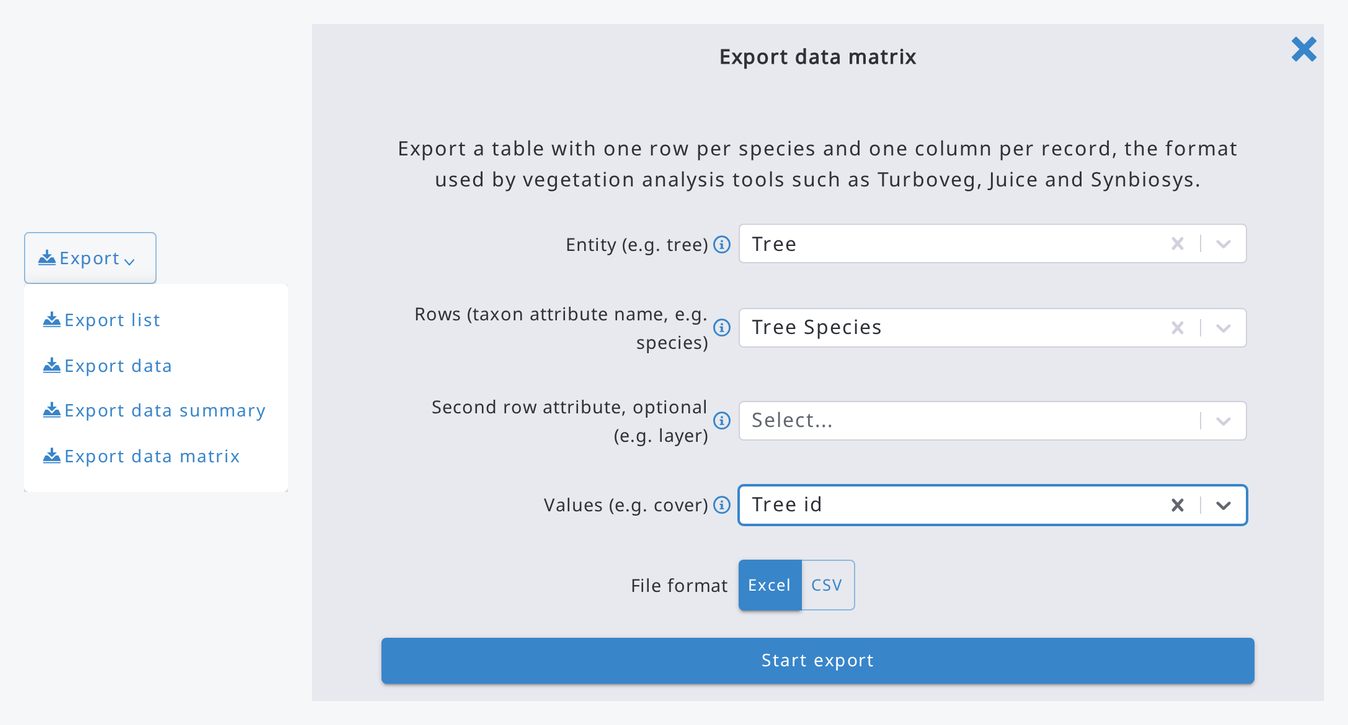
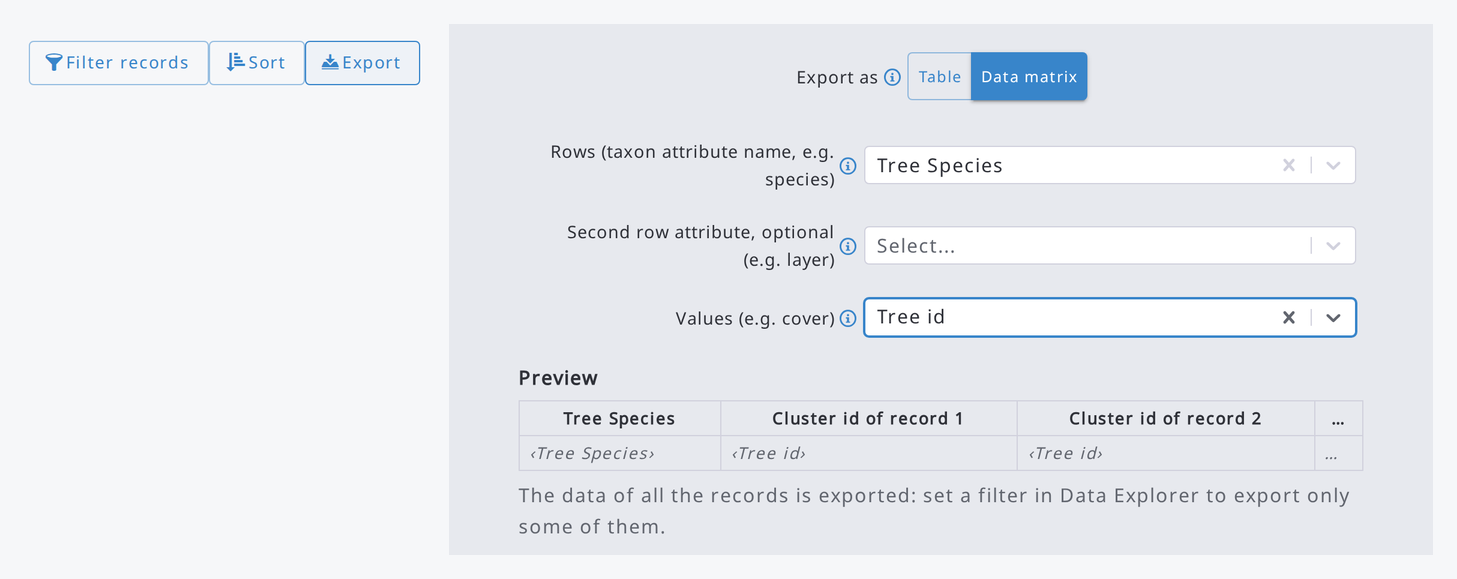
What's new: data matrix export in the Data Explorer

diff --git a/core/i18n/resources/mn/whatsNew.ts b/core/i18n/resources/mn/whatsNew.ts
@@ -8,9 +8,9 @@ export default {
   items: {
     dataMatrixExport: {
       title: `Өгөгдлийг матриц хэлбэрээр экспортлох`,
-      description: `**Өгөгдөл > Бичлэгүүд** хэсэгт **Экспортлох > Өгөгдлийн матриц экспортлох**-ыг ашиглан зүйл (эсвэл өөр шинж чанар) тус бүрд нэг мөр, бүртгэл тус бүрд нэг багана бүхий, нүднүүдэд таны сонгосон утгатай (жишээ нь бүрхэц) хүснэгт авна.
+      description: `**Өгөгдөл > Хайгч** хэсэгт олон тоот нэгж (жишээ нь бичлэг бүрийн зүйлүүд) сонгоод **Экспортлох** дээр дарж **Экспортлох хэлбэр: Өгөгдлийн матриц**-ыг сонговол зүйл (эсвэл өөр шинж чанар) тус бүрд нэг мөр, бичлэг тус бүрд нэг багана бүхий, нүднүүдэд таны сонгосон утгатай (жишээ нь бүрхэц) хүснэгт гарна.
 
-Энэ нь **Turboveg**, **Juice**, **Synbiosys** зэрэг ургамлын шинжилгээний хэрэгслүүдэд шаардлагатай формат юм. Бүх бүртгэлийг, эсвэл зөвхөн сонгосон эсвэл шүүсэн бүртгэлүүдийг экспортлох боломжтой.`,
+Энэ нь **Turboveg**, **Juice**, **Synbiosys** зэрэг ургамлын шинжилгээний хэрэгслүүдэд шаардлагатай формат юм. Зарим бичлэгийг л экспортлохын тулд Хайгчид шүүлтүүр тохируулна уу.`,
     },
     mobilePreview: {
       title: 'Судалгааг Arena Mobile дээр урьдчилан харах',

diff --git a/core/i18n/resources/ru/whatsNew.ts b/core/i18n/resources/ru/whatsNew.ts
@@ -8,9 +8,9 @@ export default {
   items: {
     dataMatrixExport: {
       title: `Экспорт данных в виде матрицы`,
-      description: `В разделе **Данные > Записи** используйте **Экспорт > Экспортировать матрицу данных**, чтобы получить таблицу с одной строкой на вид (или другой атрибут) и одним столбцом на запись, с выбранным значением в ячейках (например, покрытие).
+      description: `В разделе **Данные > Проводник** выберите множественную сущность (например, виды каждой записи), нажмите **Экспорт** и выберите **Экспортировать как: Матрица данных**, чтобы получить таблицу с одной строкой на вид (или другой атрибут) и одним столбцом на запись, с выбранным значением в ячейках (например, покрытие).
 
-Этот формат нужен инструментам анализа растительности, таким как **Turboveg**, **Juice** и **Synbiosys**. Можно экспортировать все записи или только выбранные либо отфильтрованные.`,
+Этот формат нужен инструментам анализа растительности, таким как **Turboveg**, **Juice** и **Synbiosys**. Задайте фильтр в Проводнике, чтобы экспортировать только некоторые записи.`,
     },
     mobilePreview: {
       title: 'Предварительный просмотр анкеты в Arena Mobile',

diff --git a/core/i18n/resources/ja/whatsNew.ts b/core/i18n/resources/ja/whatsNew.ts
@@ -8,9 +8,9 @@ export default {
   items: {
     dataMatrixExport: {
       title: `データをマトリクスとしてエクスポート`,
-      description: `**データ > 記録**で**エクスポート > データマトリクスをエクスポート**を使用すると、種（または他の属性）ごとに1行、レコードごとに1列で、選択した値（例：被度）がセルに入った表を取得できます。
+      description: `**データ > エクスプローラー**で複数エンティティ（例：各レコードの種）を選択し、**エクスポート**をクリックして**エクスポート形式：データマトリクス**を選ぶと、種（または他の属性）ごとに1行、レコードごとに1列で、選択した値（例：被度）がセルに入った表を取得できます。
 
-これは **Turboveg**、**Juice**、**Synbiosys** などの植生解析ツールに必要な形式です。すべてのレコード、または選択・フィルターされたレコードのみをエクスポートできます。`,
+これは **Turboveg**、**Juice**、**Synbiosys** などの植生解析ツールに必要な形式です。一部のレコードのみをエクスポートするには、エクスプローラーでフィルターを設定してください。`,
     },
     mobilePreview: {
       title: 'Arena Mobile で調査をプレビュー',

diff --git a/core/i18n/resources/fr/whatsNew.ts b/core/i18n/resources/fr/whatsNew.ts
@@ -8,9 +8,9 @@ export default {
   items: {
     dataMatrixExport: {
       title: `Exporter les données sous forme de matrice`,
-      description: `Dans **Données > Enregistrements**, utilisez **Exporter > Exporter la matrice de données** pour obtenir un tableau avec une ligne par espèce (ou tout autre attribut) et une colonne par enregistrement, avec la valeur de votre choix dans les cellules (p. ex. le recouvrement).
+      description: `Dans **Données > Explorateur**, sélectionnez une entité multiple (p. ex. les espèces de chaque enregistrement), cliquez sur **Exporter** et choisissez **Exporter en tant que : Matrice de données** pour obtenir un tableau avec une ligne par espèce (ou tout autre attribut) et une colonne par enregistrement, avec la valeur de votre choix dans les cellules (p. ex. le recouvrement).
 
-C'est le format requis par les outils d'analyse de la végétation comme **Turboveg**, **Juice** et **Synbiosys**. Vous pouvez exporter tous les enregistrements, ou seulement ceux sélectionnés ou filtrés.`,
+C'est le format requis par les outils d'analyse de la végétation comme **Turboveg**, **Juice** et **Synbiosys**. Définissez un filtre dans l'Explorateur pour n'exporter que certains enregistrements.`,
     },
     mobilePreview: {
       title: "Aperçu de l'enquête dans Arena Mobile",

diff --git a/core/i18n/resources/es/whatsNew.ts b/core/i18n/resources/es/whatsNew.ts
@@ -8,9 +8,9 @@ export default {
   items: {
     dataMatrixExport: {
       title: `Exportar datos como matriz`,
-      description: `En **Datos > Registros**, use **Exportar > Exportar matriz de datos** para obtener una tabla con una fila por especie (o cualquier otro atributo) y una columna por registro, con el valor que elija en las celdas (p. ej. cobertura).
+      description: `En **Datos > Explorador**, seleccione una entidad múltiple (p. ej. las especies de cada registro), haga clic en **Exportar** y elija **Exportar como: Matriz de datos** para obtener una tabla con una fila por especie (o cualquier otro atributo) y una columna por registro, con el valor que elija en las celdas (p. ej. cobertura).
 
-Es el formato que necesitan las herramientas de análisis de vegetación como **Turboveg**, **Juice** y **Synbiosys**. Puede exportar todos los registros, o solo los seleccionados o filtrados.`,
+Es el formato que necesitan las herramientas de análisis de vegetación como **Turboveg**, **Juice** y **Synbiosys**. Defina un filtro en el Explorador para exportar solo algunos registros.`,
     },
     mobilePreview: {
       title: 'Vista previa de la encuesta en Arena Mobile',

diff --git a/core/i18n/resources/pt/whatsNew.ts b/core/i18n/resources/pt/whatsNew.ts
@@ -8,9 +8,9 @@ export default {
   items: {
     dataMatrixExport: {
       title: `Exportar dados como matriz`,
-      description: `Em **Dados > Registros**, use **Exportar > Exportar matriz de dados** para obter uma tabela com uma linha por espécie (ou qualquer outro atributo) e uma coluna por registro, com o valor escolhido nas células (p. ex. cobertura).
+      description: `Em **Dados > Explorador**, selecione uma entidade múltipla (p. ex. as espécies de cada registro), clique em **Exportar** e escolha **Exportar como: Matriz de dados** para obter uma tabela com uma linha por espécie (ou qualquer outro atributo) e uma coluna por registro, com o valor escolhido nas células (p. ex. cobertura).
 
-Este é o formato exigido por ferramentas de análise de vegetação como **Turboveg**, **Juice** e **Synbiosys**. Você pode exportar todos os registros, ou apenas os selecionados ou filtrados.`,
+Este é o formato exigido por ferramentas de análise de vegetação como **Turboveg**, **Juice** e **Synbiosys**. Defina um filtro no Explorador para exportar apenas alguns registros.`,
     },
     mobilePreview: {
       title: 'Visualização do inquérito no Arena Mobile',

diff --git a/core/i18n/resources/sr/whatsNew.ts b/core/i18n/resources/sr/whatsNew.ts
@@ -8,9 +8,9 @@ export default {
   items: {
     dataMatrixExport: {
       title: `Izvoz podataka u obliku matrice`,
-      description: `U **Podaci > Zapisi** koristite **Izvezi > Izvezi matricu podataka** da dobijete tabelu sa jednim redom po vrsti (ili drugom atributu) i jednom kolonom po zapisu, sa vrednošću koju izaberete u ćelijama (npr. pokrovnost).
+      description: `U **Podaci > Istraživač podataka** izaberite višestruki entitet (npr. vrste svakog zapisa), kliknite na **Izvezi** i izaberite **Izvezi kao: Matrica podataka** da dobijete tabelu sa jednim redom po vrsti (ili drugom atributu) i jednom kolonom po zapisu, sa vrednošću koju izaberete u ćelijama (npr. pokrovnost).
 
-Ovo je format koji zahtevaju alati za analizu vegetacije kao što su **Turboveg**, **Juice** i **Synbiosys**. Možete izvesti sve zapise, ili samo izabrane ili filtrirane.`,
+Ovo je format koji zahtevaju alati za analizu vegetacije kao što su **Turboveg**, **Juice** i **Synbiosys**. Postavite filter u Istraživaču podataka da biste izvezli samo neke zapise.`,
     },
     mobilePreview: {
       title: 'Pregled istraživanja u aplikaciji Arena Mobile',

diff --git a/core/i18n/resources/en/whatsNew.ts b/core/i18n/resources/en/whatsNew.ts
@@ -8,9 +8,9 @@ export default {
   items: {
     dataMatrixExport: {
       title: `Export data as a matrix`,
-      description: `In **Data > Records**, use **Export > Export data matrix** to get a table with one row per species (or any other attribute) and one column per record, with the value you choose in the cells (e.g. cover).
+      description: `In **Data > Explorer**, select a multiple entity (e.g. the species of each record), click **Export** and choose **Export as: Data matrix** to get a table with one row per species (or any other attribute) and one column per record, with the value you choose in the cells (e.g. cover).
 
-This is the format needed by vegetation analysis tools such as **Turboveg**, **Juice** and **Synbiosys**. You can export all the records, or only the selected or filtered ones.`,
+This is the format needed by vegetation analysis tools such as **Turboveg**, **Juice** and **Synbiosys**. Set a filter in the Explorer to export only some of the records.`,
     },
     mobilePreview: {
       title: 'Preview the survey in Arena Mobile',

diff --git a/core/whatsNew/whatsNewItems.ts b/core/whatsNew/whatsNewItems.ts
@@ -29,7 +29,7 @@ export const whatsNewItems: WhatsNewItem[] = [
   {
     id: 'dataMatrixExport',
     version: '2.10.12',
-    audience: whatsNewAudiences.all,
+    audience: whatsNewAudiences.dataCleanser,
     image: '/img/whats-new/dataMatrixExport.png',
   },
   {

diff --git a/CHANGELOG.md b/CHANGELOG.md
@@ -2,7 +2,7 @@
 
 A short, user-facing summary of each release. Internal/code-level changes are omitted; see the [git tags](https://github.com/openforis/arena/tags) for the full commit history.
 
-- **[2.10.12](https://github.com/openforis/arena/compare/v2.10.11...v2.10.12)** — 2026-11-02: records list: export data as a matrix, with one row per species (or any other attribute) and one column per record, as required by vegetation analysis tools such as Turboveg (#4626)
+- **[2.10.12](https://github.com/openforis/arena/compare/v2.10.11...v2.10.12)** — 2026-11-02: Data Explorer: export data as a matrix, with one row per species (or any other attribute) and one column per record, as required by vegetation analysis tools such as Turboveg (#4626)
 - **[2.10.11](https://github.com/openforis/arena/compare/v2.10.10...v2.10.11)** — 2026-11-02: data import: much faster import of Arena files with large records, from minutes to seconds (#4617); canceling an import now stops it after the current record (#4618); import preview shows the values of key attributes linked to large categories or taxonomies, and records with these keys are merged instead of duplicated (#4616, #4619); library updates (#4606, #4609, #4611, #4615)
 - **[2.10.10](https://github.com/openforis/arena/compare/v2.10.9...v2.10.10)** — 2026-10-31: chains: fixed plot area attributes lost when cloning a chain or publishing a survey with more chains (#4604); data entry: fixed lower-level code attributes cleared when a parent code value is set again; expressions: fixed attributes named like node properties (e.g. id, value), faster evaluation of chained method calls; faster updates of records with many entities; security fixes, a two-factor code can now be used only once (#4602, #4605)
 - **[2.10.9](https://github.com/openforis/arena/compare/v2.10.8...v2.10.9)** — 2026-10-30: Excel imports: formula, rich text and hyperlink cells are read as plain values; fixed taxonomy editor error with taxa already imported from such files (#4599); Data Explorer: fixed filters comparing text attributes with a text value, e.g. attr = 'text' (#4600)
